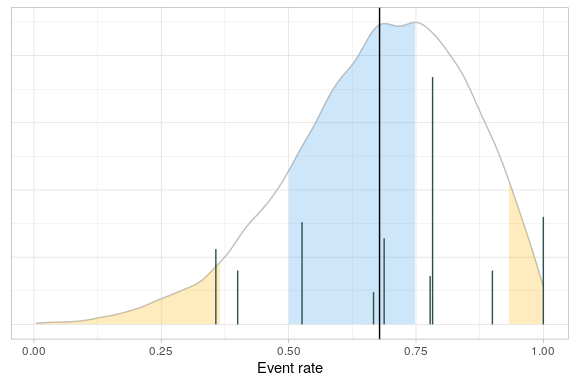
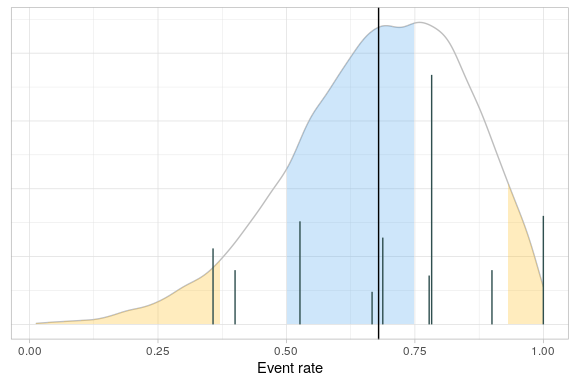
Fixing R CMD check

diff --git a/README.md b/README.md
@@ -216,36 +216,36 @@ fitted <- berrySummary %>%
 #> Loading required namespace: rjags
 fitted
 #> $tab
-#> # A tibble: 25,524 × 4
+#> # A tibble: 24,168 × 4
 #>        p     a     b     q
 #>    <dbl> <dbl> <dbl> <int>
-#>  1 0.583 10.0   3.69    28
-#>  2 0.858  9.14  3.42    85
-#>  3 0.799  8.30  3.22    73
-#>  4 0.626  7.88  3.61    36
-#>  5 0.815  6.11  3.55    77
-#>  6 0.831  8.17  3.82    80
-#>  7 0.727  9.59  3.80    58
-#>  8 0.944  9.81  2.57    97
-#>  9 0.764  8.05  3.11    66
-#> 10 0.520  5.42  3.17    18
-#> # … with 25,514 more rows
+#>  1 0.939  8.22  2.91    96
+#>  2 0.762  9.34  3.45    65
+#>  3 0.988  9.33  2.45   100
+#>  4 0.866  9.19  3.01    86
+#>  5 0.861  8.68  2.38    86
+#>  6 0.851  8.81  2.73    84
+#>  7 0.574  9.29  4.59    26
+#>  8 0.643  8.74  4.39    39
+#>  9 0.489  8.42  3.98    14
+#> 10 0.411  9.48  4.21     8
+#> # … with 24,158 more rows
 #> 
 #> $results
 #> 
-#> JAGS model summary statistics from 25524 samples (chains = 2; adapt+burnin = 5000):
+#> JAGS model summary statistics from 24168 samples (chains = 2; adapt+burnin = 5000):
 #>                                                                           
 #>       Lower95  Median Upper95    Mean      SD Mode     MCerr MC%ofSD SSeff
-#> p[10] 0.36902 0.69378       1 0.67862 0.17184   -- 0.0013466     0.8 16285
-#> a       2.194  5.8877  9.9978  5.8919  2.3051   --  0.057923     2.5  1584
-#> b     0.58445   2.634  5.1387  2.7711  1.2406   --    0.0314     2.5  1561
-#>                       
-#>           AC.10   psrf
-#> p[10] 0.0031015 1.0001
-#> a       0.22143 1.0025
-#> b       0.22927 1.0028
+#> p[10] 0.37141 0.69488 0.99998 0.67937 0.17112   -- 0.0013142     0.8 16954
+#> a      2.2058  6.0317  9.9945  5.9753  2.3061   --  0.060407     2.6  1457
+#> b     0.60676  2.6685  5.2509  2.8158  1.2814   --  0.032986     2.6  1509
+#>                        
+#>            AC.10   psrf
+#> p[10] -0.0074243 1.0002
+#> a        0.21739 1.0001
+#> b        0.22306 1.0005
 #> 
-#> Total time taken: 4.1 seconds
+#> Total time taken: 3.9 seconds
 #> 
 #> 
 #> $status
@@ -294,7 +294,7 @@ berrySummary %>%
 #> [1] "OK"
 #> 
 #> $qtl
-#> [1] 0.6784934
+#> [1] 0.6793485
 #> 
 #> $data
 #> # A tibble: 9 × 5
@@ -354,7 +354,7 @@ berrySummary %>%
 #> [1] "OK"
 #> 
 #> $qtl
-#> [1] 0.6944913
+#> [1] 0.6947496
 #> 
 #> $data
 #> # A tibble: 9 × 5
@@ -388,7 +388,7 @@ berrySummary %>%
 #> 
 #> $qtl
 #>       10% 
-#> 0.4433563 
+#> 0.4476907 
 #> 
 #> $data
 #> # A tibble: 9 × 5
@@ -430,7 +430,7 @@ qtlProbInRange
 #> [1] "action"
 #> 
 #> $qtl
-#> [1] 0.4677167
+#> [1] 0.4693396
 #> 
 #> $data
 #> # A tibble: 9 × 5
@@ -488,7 +488,7 @@ berrySummary %>%
     }
   )
 #> $qtl
-#> [1] 0.6784934
+#> [1] 0.6793485
 #> 
 #> $status
 #> [1] "Breach"
@@ -539,17 +539,17 @@ The `quantiles` element of the return value contains the mappings from
 quantile of the posterior to observed values of the metric. For example,
 the first row of `rvSiteMetrics$quantiles` shows that the lower action
 limit is the 5th centile of the posterior, which corresponds to an event
-probability of 0.365.
+probability of 0.371.
 
 ``` r
 rvSiteMetrics$quantiles
 #> # A tibble: 4 × 4
 #>   Threshold Status Quantile     p
 #>   <chr>     <chr>     <dbl> <dbl>
-#> 1 Lower     action     0.05 0.365
-#> 2 Lower     warn       0.2  0.535
-#> 3 Upper     warn       0.8  0.833
-#> 4 Upper     action     0.95 0.931
+#> 1 Lower     action     0.05 0.371
+#> 2 Lower     warn       0.2  0.538
+#> 3 Upper     warn       0.8  0.832
+#> 4 Upper     action     0.95 0.930
 ```
 
 As before, the `data` element of the list contains a copy of the site
